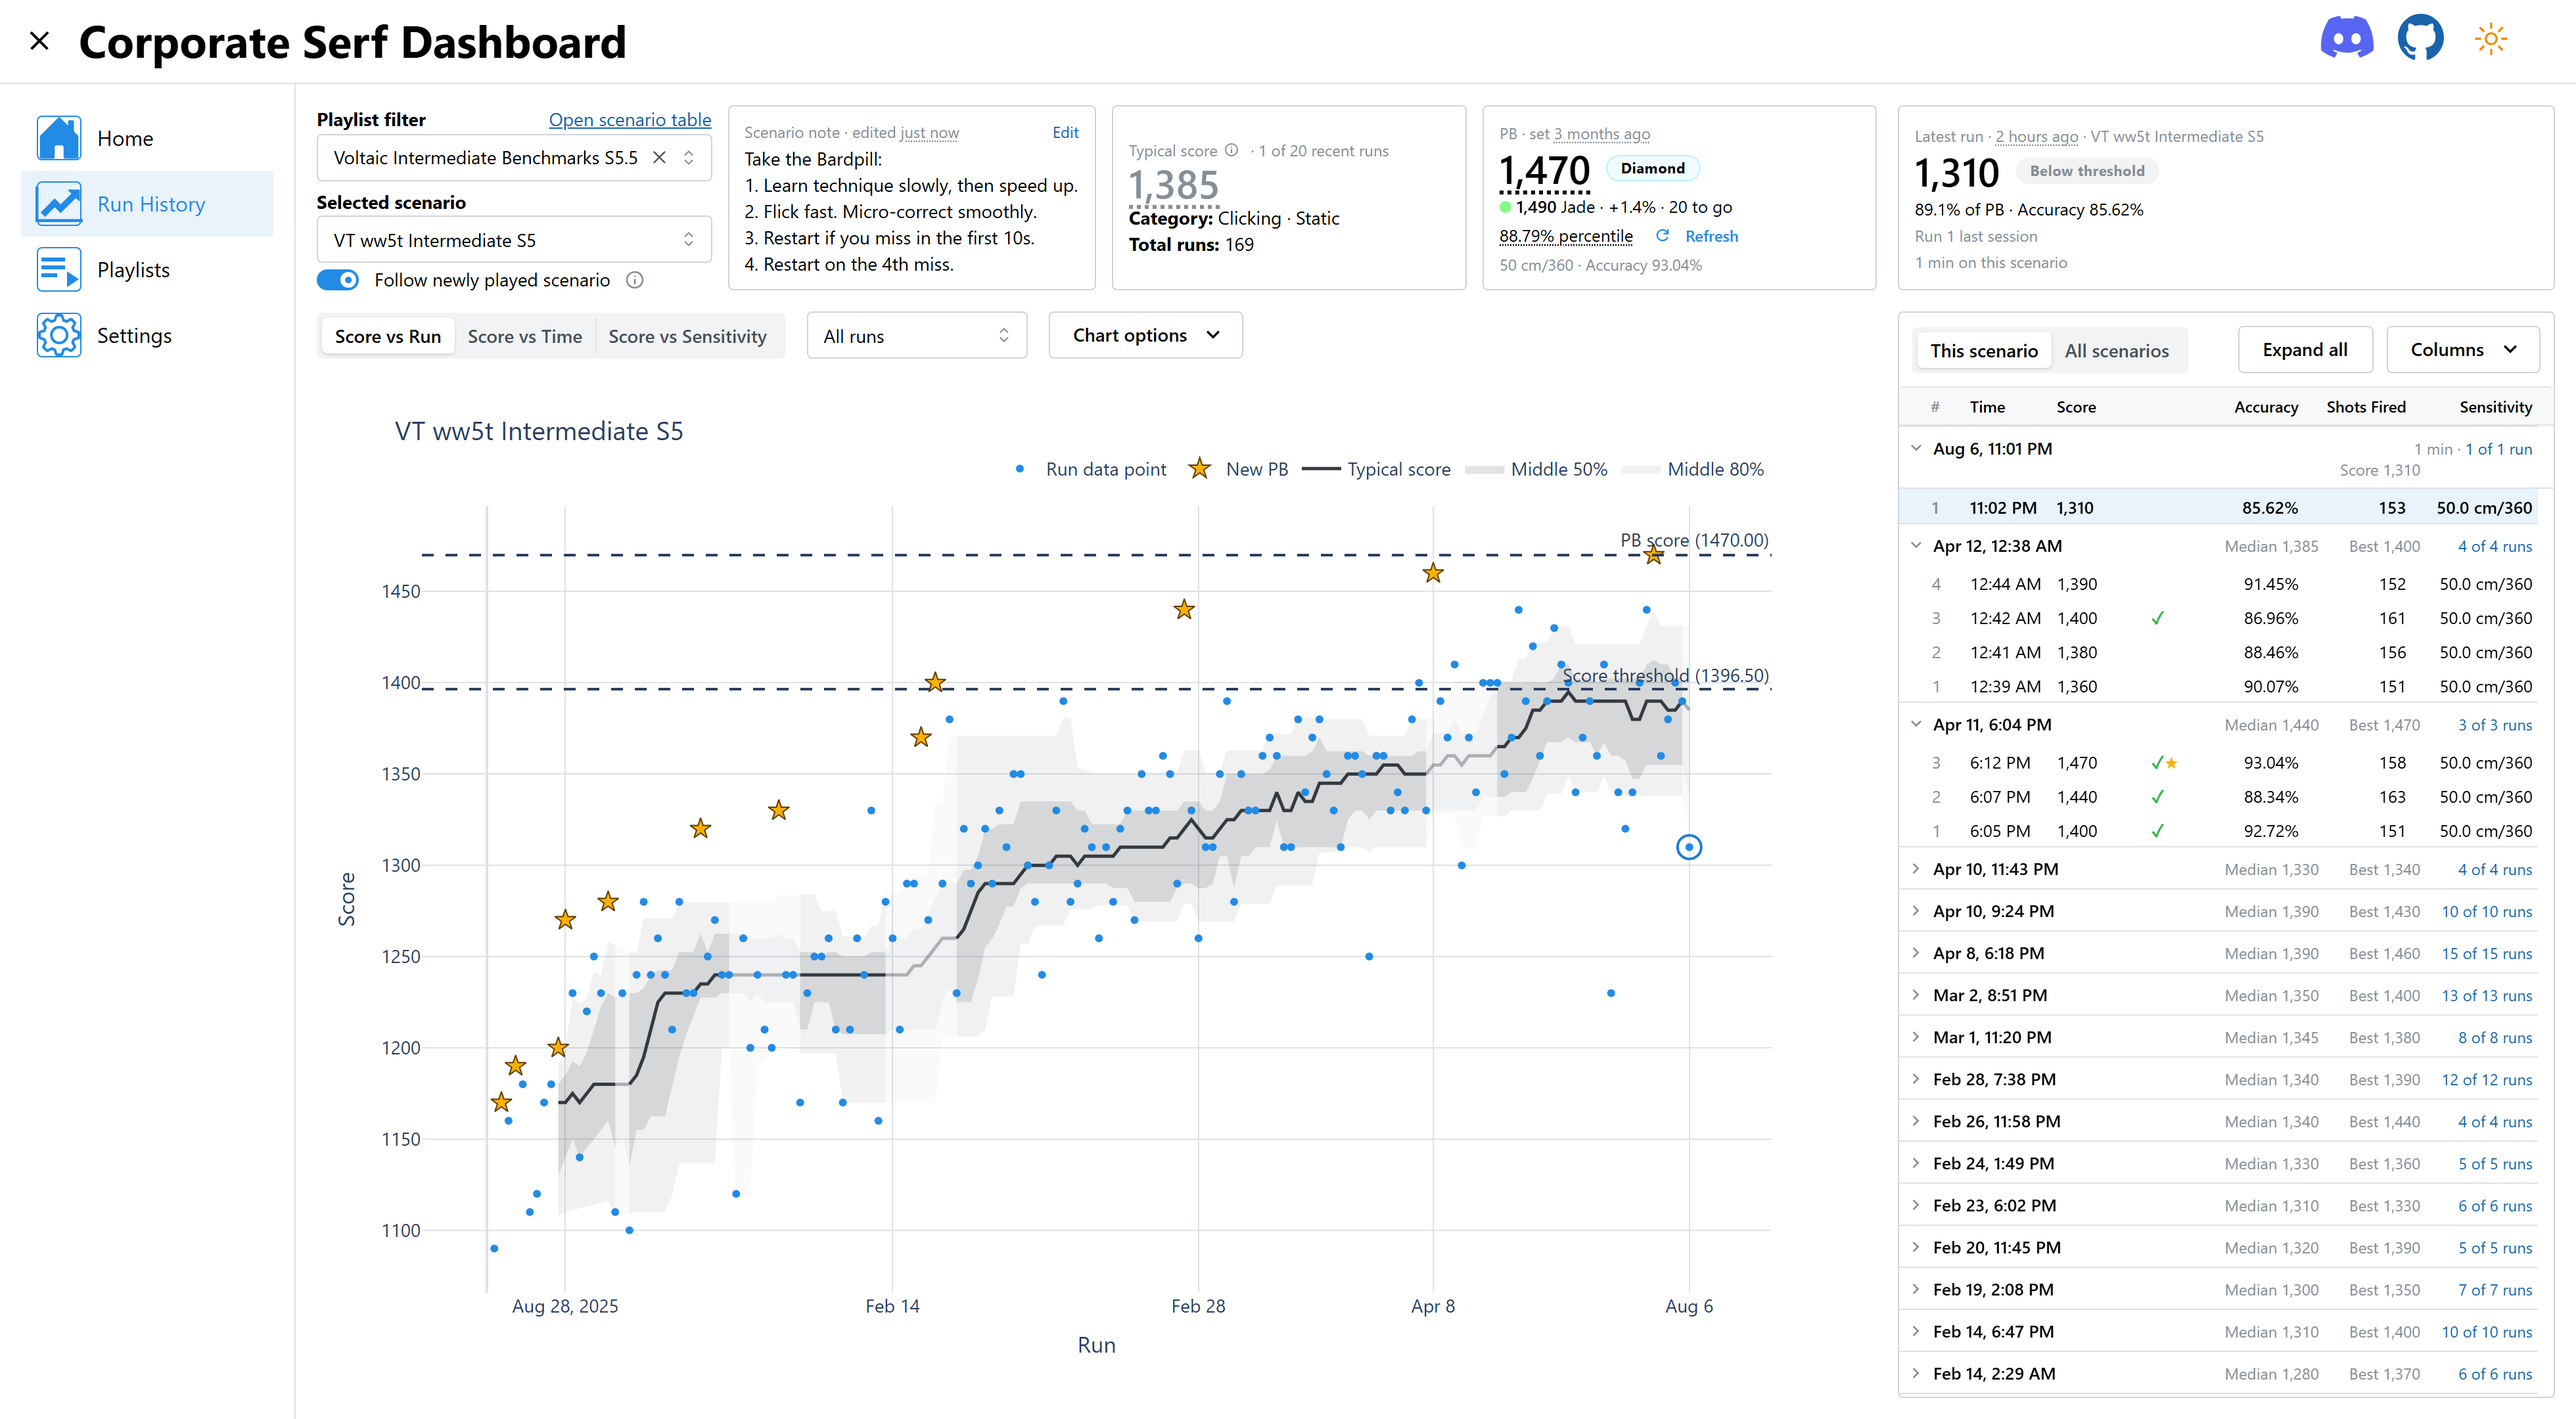
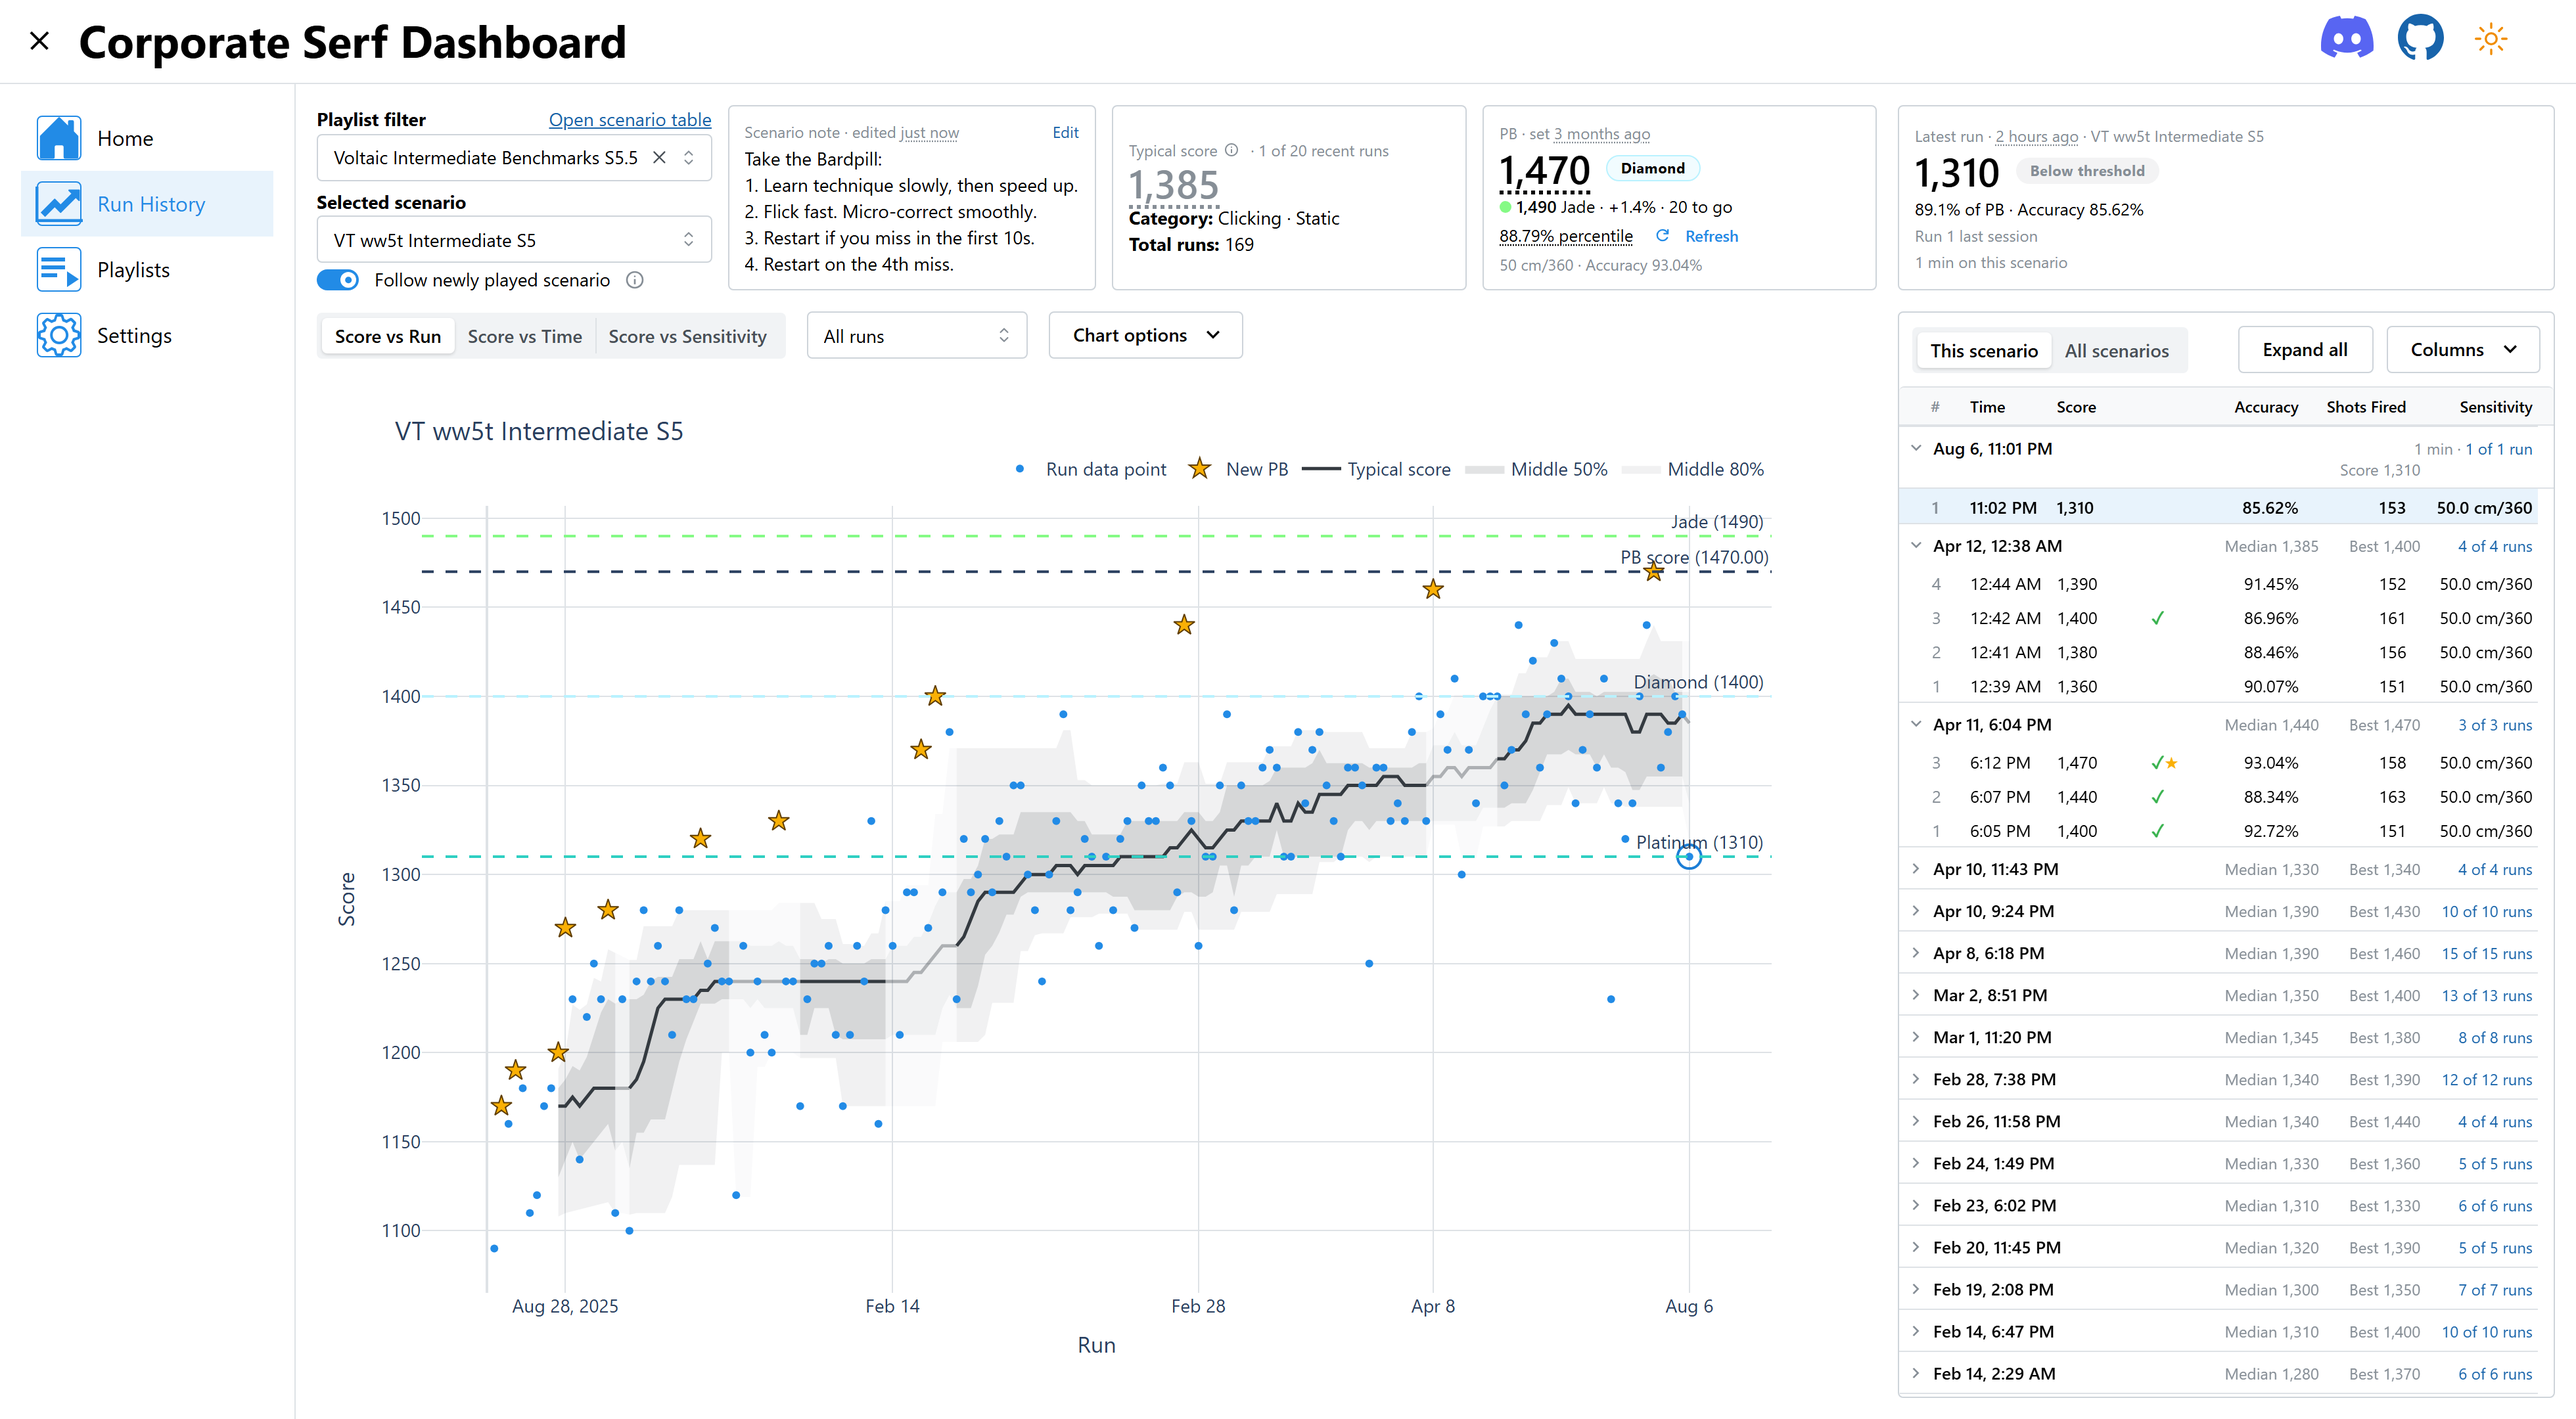
Include rank thresholds in the Run History screenshot

diff --git a/scripts/capture_screenshots.py b/scripts/capture_screenshots.py
@@ -448,7 +448,9 @@ def capture(origin: str, destination: Path) -> None:
         page.get_by_role("option", name="All runs", exact=True).click()
         expect(page.locator("#run-history-run-range")).to_have_value("All runs")
         page.get_by_role("button", name="Chart options", exact=True).click()
-        page.locator("#run-history-rank-overlay-switch").uncheck()
+        page.locator("#run-history-rank-overlay-switch").check()
+        # The score-threshold label would overlap Diamond's nearby rank label.
+        page.locator("#run-history-score-threshold-overlay-switch").uncheck()
         page.get_by_role("button", name="Chart options", exact=True).click()
         # Plotly can retain the inspector's narrower canvas after it closes.
         # A normal viewport resize retriggers its responsive layout.
@@ -467,7 +469,9 @@ def capture(origin: str, destination: Path) -> None:
                 && typical.some(trace => trace.opacity === 0.35)
                 && typical.some(trace => trace.opacity === 1)
                 && typical.some(trace => trace.x.includes(count))
-                && graph.layout.shapes.length === 2;
+                && ['PB Score', 'Platinum', 'Diamond', 'Jade'].every(
+                    name => graph.layout.shapes.some(shape => shape.name === name))
+                && !graph.layout.shapes.some(shape => shape.name === 'Score Threshold');
         }""",
             arg=len(HISTORY["runs"]),
         )

diff --git a/docs/screenshots/README.md b/docs/screenshots/README.md
@@ -14,7 +14,7 @@ scenario table and the ww5t history.
 
 | Image | Story | Data and framing |
 | --- | --- | --- |
-| `run_history.png` | Separate usual performance from individual results, across practice and long breaks. | Real ww5t history in Score vs Run with All runs: 169 runs across 24 sessions, from August 2025 to August 2026. Preserve the uneven progress and actual gaps. Typical score support is faded after long breaks, including the latest point. Select Median and best for session summaries. Keep the useful Bardpill technique note. Expand the latest session and the April 12 and April 11 sessions. Show run-level green checks for meeting the threshold and a star for a new PB. Show PB and score-threshold lines, with rank overlays off so the trend remains prominent. |
+| `run_history.png` | Separate usual performance from individual results, across practice and long breaks. | Real ww5t history in Score vs Run with All runs: 169 runs across 24 sessions, from August 2025 to August 2026. Preserve the uneven progress and actual gaps. Typical score support is faded after long breaks, including the latest point. Select Median and best for session summaries. Keep the useful Bardpill technique note. Expand the latest session and the April 12 and April 11 sessions. Show run-level green checks for meeting the threshold and a star for a new PB. Show PB and rank-threshold lines so progress has benchmark context, including the next rank target. Hide the score-threshold line because its label overlaps Diamond; the run-list checks still demonstrate threshold attainment. |
 | `playlists.png` | Compare coverage and standing to choose a benchmark to work on. | A completed novice benchmark, an active intermediate benchmark, and partially explored advanced and Viscose benchmarks. Vary run counts, activity dates, medians and weakest percentiles. Keep navigation visible, crop out the app banner and fit every column. |
 | `playlist_scenarios.png` | Identify weaknesses and achievable next targets. | Show the same Voltaic Intermediate benchmark, including ww5t's real 1470 PB, twenty points below Jade. Show its 88.79% percentile beside varied illustrative standings. Crop to the complete seven-row Clicking category so the image itself stays short and merged labels remain whole. Include Typical Score, Typical Rank and every other default column. Collapse navigation and crop out the app banner. |
 
